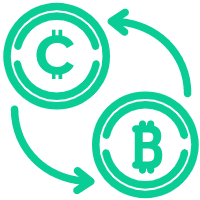
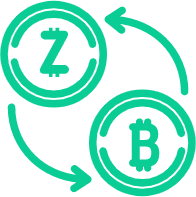
Update ICO page

diff --git a/components/FAQs.tsx b/components/FAQs.tsx
@@ -11,49 +11,29 @@ import {
 const FAQs = () => {
   const faqs = [
     {
-      title: "Cryption Coins",
+      title: "Zilionixx blockchain",
       content:
-        "A paragraph is a series of related sentences developing a central idea, called the topic. Try to think about paragraphs in terms of thematic unity: a paragraph is a sentence or a group of sentences that supports one central, unified idea. Paragraphs add one idea at a time to your broader argument.",
+        "Zilionixx is a layer-1 blockchain development platform that enables developers to build efficient and secure decentralized applications. Developers can use solidity code of Ethereum or Binance on Zilionixx blockchain.",
     },
     {
-      title: "How many sentences is a paragraph?",
+      title: "What is smart contract?",
       content:
-        "Aim for three to five or more sentences per paragraph. Include on each page about two handwritten or three typed paragraphs. Make your paragraphs proportional to your paper. Since paragraphs do less work in short papers, have short paragraphs for short papers and longer paragraphs for longer papers.",
+        "A smart contract is a self-executing contract with the terms of the agreement between buyer and seller being directly written into lines of code. The code and the agreements contained therein exist across a distributed, decentralized blockchain network. The code controls the execution, and transactions are trackable and irreversible.",
     },
     {
-      title: "What is a paragraph and example?",
+      title: "What is Unicial?",
       content:
-        "A paragraph is a series of sentences that are organized and coherent, and are all related to a single topic. ... Paragraphs can contain many different kinds of information. A paragraph could contain a series of brief examples or a single long illustration of a general point.",
+        "Unicial is a metaverse. The term metaverse can be traced back to Neal Stephenson and his dystopian cyberpunk novel Snow Crash. The novel was released in 1992, and it’s considered a canon of the genre, along with William Gibson’s Neuromancer, which describes a virtual reality dataspace called the matrix.",
     },
     {
-      title: "What is a paragraph and example?",
+      title: "What is dongletrade?",
       content:
-        "A paragraph is a series of sentences that are organized and coherent, and are all related to a single topic. ... Paragraphs can contain many different kinds of information. A paragraph could contain a series of brief examples or a single long illustration of a general point.",
+        "Dongletrade is an exchange website where users can buy and sell coins including znx. For most digital currency investors, the centralized cryptocurrency exchange is one of the most important vehicles for transacting. Centralized cryptocurrency exchanges are online platforms used to buy and sell cryptocurrencies. They are the most common means that investors use to buy and sell cryptocurrency holdings.",
     },
     {
-      title: "What is a paragraph and example?",
+      title: "What is Zilionixx block explorer?",
       content:
-        "A paragraph is a series of sentences that are organized and coherent, and are all related to a single topic. ... Paragraphs can contain many different kinds of information. A paragraph could contain a series of brief examples or a single long illustration of a general point.",
-    },
-    {
-      title: "What is a paragraph and example?",
-      content:
-        "A paragraph is a series of sentences that are organized and coherent, and are all related to a single topic. ... Paragraphs can contain many different kinds of information. A paragraph could contain a series of brief examples or a single long illustration of a general point.",
-    },
-    {
-      title: "What is a paragraph and example?",
-      content:
-        "A paragraph is a series of sentences that are organized and coherent, and are all related to a single topic. ... Paragraphs can contain many different kinds of information. A paragraph could contain a series of brief examples or a single long illustration of a general point.",
-    },
-    {
-      title: "What is a paragraph and example?",
-      content:
-        "A paragraph is a series of sentences that are organized and coherent, and are all related to a single topic. ... Paragraphs can contain many different kinds of information. A paragraph could contain a series of brief examples or a single long illustration of a general point.",
-    },
-    {
-      title: "What is a paragraph and example?",
-      content:
-        "A paragraph is a series of sentences that are organized and coherent, and are all related to a single topic. ... Paragraphs can contain many different kinds of information. A paragraph could contain a series of brief examples or a single long illustration of a general point.",
+        "Zilionixx block explorer(https://znxscan.com) is a block explorer on where users and developers can check their transactions.",
     },
   ];
 
@@ -73,7 +53,7 @@ const FAQs = () => {
               <div className="wpb_text_column wpb_content_element  vc_custom_1520421849945">
                 <div className="wpb_wrapper">
                   <div className="title-h3" style={{ textAlign: "left" }}>
-                    Cryption Coins
+                    Zilionixx blockchain
                   </div>
                 </div>
               </div>

diff --git a/components/Footer.tsx b/components/Footer.tsx
@@ -9,9 +9,8 @@ const Footer = () => {
           <Col lg={3} md={6} sm={12} className="py-3">
             <img src="/static/images/logo_large.png"></img>
             <span className="d-block my-4">
-              ICO Landing Page Template. Lorem ipsum dolor sit amet, consectetur
-              adipisicing elit, sed do eiusmod tempor incididunt ut labore et
-              dolore magna aliqua enim dolor sit amet.
+              Zilionixx crowdsale landing page. Zilionixx crowdsale will be
+              start on 1th Febrary.
             </span>
             <Button outline className="c-aboutus-btn">
               About Us
@@ -25,35 +24,37 @@ const Footer = () => {
                   <i className="fal fa-map-marker-alt" />
                   Address:
                   <br />
-                  908 New Hampshire Avenue #100, Washington, DC 20037, United
-                  States
+                  140 Paya Lebar road #05-15 AZ @ Paya Lebar Singapore (409015)
                 </span>
               </div>
               <div className="mt-1">
                 <span className="c-bottom-item">
                   <i className="fas fa-headphones"></i>
-                  Phone: +1 916-85-2235
+                  Phone: +65 6702 3011
                 </span>
               </div>
               <div className="mt-1">
                 <span className="c-bottom-item">
                   <i className="fal fa-fax"></i>
-                  Fax: +1 916-85-2235
+                  Fax: +65 6702 3011
                 </span>
               </div>
               <div className="mt-1">
                 <span className="c-bottom-item">
                   <i className="far fa-envelope"></i>
                   Email:&nbsp;
-                  <a className="link-item" href="mailto:info@cryption.network">
-                    info@cryption.network
+                  <a className="link-item" href="mailto:tsimafei@zilionixx.com">
+                    tsimafei@zilionixx.com
                   </a>
                 </span>
               </div>
               <div className="mt-1">
                 <span className="c-bottom-item">
                   <i className="fal fa-globe"></i>
-                  Website: cryption.network
+                  Website:&nbsp;
+                  <a className="link-item" href="https://zilionixx.com">
+                    zilionixx.com
+                  </a>
                 </span>
               </div>
             </div>
@@ -62,13 +63,25 @@ const Footer = () => {
             <span className="c-footer-title">Links</span>
             <div>
               <div className="mt-1">
-                <span className="c-footer-link">ICO list</span>
+                <span className="c-footer-link">
+                  <a className="link-item" href="https://znxscan.com">
+                    Block Explorer
+                  </a>
+                </span>
               </div>
               <div className="mt-1">
-                <span className="c-footer-link">Our approach</span>
+                <span className="c-footer-link">
+                  <a className="link-item" href="https://dongletrade.com">
+                    Dongle Trade
+                  </a>
+                </span>
               </div>
               <div className="mt-1">
-                <span className="c-footer-link">History</span>
+                <span className="c-footer-link">
+                  <a className="link-item" href="https://zilionixx.com">
+                    Zilionixx
+                  </a>
+                </span>
               </div>
               <div className="mt-1">
                 <span className="c-footer-link">News</span>

diff --git a/components/ConnectWithUs.tsx b/components/ConnectWithUs.tsx
@@ -66,10 +66,8 @@ const ConnectWithUs = () => {
                         }}
                       >
                         <span style={{ color: "#ffffff" }}>
-                          Lorem ipsum dolor sit ametcon sectetur adipisicing
-                          elit, sed doiusmod tempor incidi labore. Ut enim ad
-                          mini veniam, quis nostrud exercitation ullamco
-                          aliquip.
+                          You can subscribe about Zilionixx blockchain from
+                          below Zilionixx social links. <br /> Please join here.
                         </span>
                       </p>
                     </div>
@@ -82,8 +80,7 @@ const ConnectWithUs = () => {
                   <div className="socials socials-list socials-colored-hover socials-rounded socials-alignment-center">
                     <a
                       className="socials-item"
-                      target="_blank"
-                      href="#"
+                      href="https://twitter.com/zilionixx"
                       style={{ color: "#ffffff" }}
                     >
                       <i
@@ -93,8 +90,7 @@ const ConnectWithUs = () => {
                     </a>
                     <a
                       className="socials-item"
-                      target="_blank"
-                      href="#"
+                      href="https://www.facebook.com/groups/4354141514692375/"
                       style={{ color: "#ffffff" }}
                     >
                       <i
@@ -102,7 +98,7 @@ const ConnectWithUs = () => {
                         style={{ fontSize: "40px" }}
                       ></i>
                     </a>
-                    <a
+                    {/* <a
                       className="socials-item"
                       target="_blank"
                       href="#"
@@ -112,8 +108,8 @@ const ConnectWithUs = () => {
                         className="socials-item-icon pinterest"
                         style={{ fontSize: "40px" }}
                       ></i>
-                    </a>
-                    <a
+                    </a> */}
+                    {/* <a
                       className="socials-item"
                       target="_blank"
                       href="#"
@@ -123,11 +119,10 @@ const ConnectWithUs = () => {
                         className="socials-item-icon instagram"
                         style={{ fontSize: "40px" }}
                       ></i>
-                    </a>
+                    </a> */}
                     <a
                       className="socials-item"
-                      target="_blank"
-                      href="#"
+                      href="https://www.youtube.com/channel/UCvM8xLpdbdyNFVXf5-NmnOA"
                       style={{ color: "#ffffff" }}
                     >
                       <i
@@ -137,8 +132,7 @@ const ConnectWithUs = () => {
                     </a>
                     <a
                       className="socials-item"
-                      target="_blank"
-                      href="#"
+                      href="https://t.me/zilionixx"
                       style={{ color: "#ffffff" }}
                     >
                       <i

diff --git a/components/OurTeam.tsx b/components/OurTeam.tsx
@@ -49,11 +49,9 @@ const OurTeam = () => {
                 </a>
               </div>
               <div className="team-person-info">
-                <div className="team-person-name title-h4">
-                  Emerson Anderson
-                </div>
+                <div className="team-person-name title-h4">Doctor Joe Luo</div>
                 <div className="team-person-position date-color small-body">
-                  Co-founder, VP Marketing
+                  Co-founder, CEO
                 </div>
                 <div className="team-person-content"></div>
                 <div className="socials team-person-socials socials-colored-hover">
@@ -103,9 +101,9 @@ const OurTeam = () => {
                 </a>
               </div>
               <div className="team-person-info">
-                <div className="team-person-name title-h4">Steven Beals</div>
+                <div className="team-person-name title-h4">Tsimafei</div>
                 <div className="team-person-position date-color small-body">
-                  CMO, VP Marketing
+                  CTO, Blockchain engineer
                 </div>
                 <div className="team-person-content"></div>
                 <div className="socials team-person-socials socials-colored-hover">
@@ -155,9 +153,9 @@ const OurTeam = () => {
                 </a>
               </div>
               <div className="team-person-info">
-                <div className="team-person-name title-h4">Evelyn Snyder</div>
+                <div className="team-person-name title-h4">Joan Lau</div>
                 <div className="team-person-position date-color small-body">
-                  Blockchain architect
+                  Co-founder, Marketing
                 </div>
                 <div className="team-person-content"></div>
                 <div className="socials team-person-socials socials-colored-hover">
@@ -207,9 +205,9 @@ const OurTeam = () => {
                 </a>
               </div>
               <div className="team-person-info">
-                <div className="team-person-name title-h4">Herman Ledford</div>
+                <div className="team-person-name title-h4">Raymend</div>
                 <div className="team-person-position date-color small-body">
-                  Lead Product Manager
+                  Marketing manager
                 </div>
                 <div className="team-person-content"></div>
                 <div className="socials team-person-socials socials-colored-hover">

diff --git a/components/Roadmap.tsx b/components/Roadmap.tsx
@@ -402,6 +402,8 @@ const Option = () => {
                               style={{ color: "#ffffff" }}
                             >
                               Launch CEX(Centralized Exchange, Dongle).
+                              <br /> Start Unicial(Metaverse) development and
+                              presale of UCC token.
                             </div>
                           </div>
                         </div>{" "}
